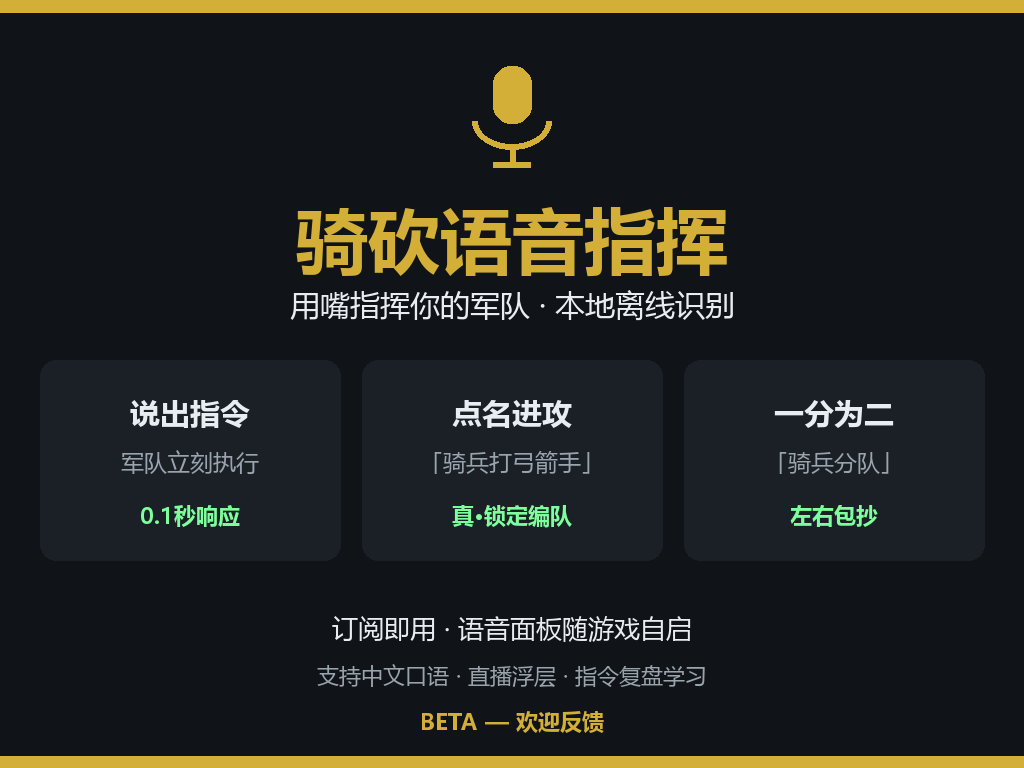
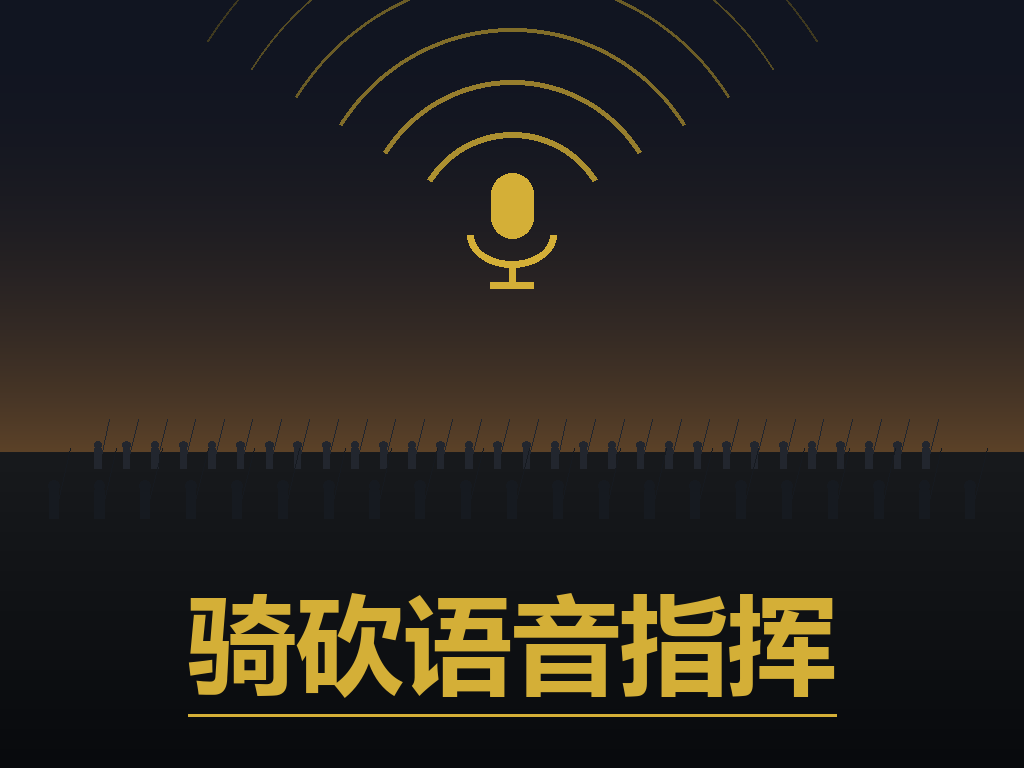
4:3主视觉改纯图形叙事(声波驱动军阵), 文案只留六个大字

diff --git a/tools/make_workshop_art.py b/tools/make_workshop_art.py
@@ -162,42 +162,75 @@ def shot_split():
 
 
 def promo_4x3():
-    """4:3 宣传图 1024x768 (Steam 工坊主视觉推荐比例)。"""
+    """4:3 主视觉 1024x768 —— 纯图形叙事, 文案只留六个大字。
+
+    构图: 上方暮色天光渐变, 中央声波自麦克风扩散, 下方军阵剪影(长矛列)
+    正随声波推进 —— "声音驱动军队"一眼可读, 不靠一句说明文字。
+    """
     W, H = 1024, 768
     img = Image.new("RGB", (W, H), BG)
     d = ImageDraw.Draw(img)
-    d.rectangle([0, 0, W, 12], fill=GOLD)
-    d.rectangle([0, H - 12, W, H], fill=GOLD)
 
-    mic_icon(d, W / 2, 118, 104, GOLD)
-    center(d, W / 2, 190, "骑砍语音指挥", font("msyhbd.ttc", 72), GOLD)
-    center(d, W / 2, 284, "用嘴指挥你的军队 · 本地离线识别",
-           font("msyh.ttc", 30), FG)
+    horizon = 452          # 地平线
+    title_y = 568          # 标题基线区(军阵不许越过)
 
-    # 三张能力卡
-    cards = [("说出指令", "军队立刻执行", "0.1秒响应"),
-             ("点名进攻", "「骑兵打弓箭手」", "真·锁定编队"),
-             ("一分为二", "「骑兵分队」", "左右包抄")]
-    cw, gap = 300, 22
-    x = (W - (cw * 3 + gap * 2)) / 2
-    f_t = font("msyhbd.ttc", 30)
-    f_s = font("msyh.ttc", 23)
-    f_g = font("msyhbd.ttc", 22)
-    for title, sub, tag in cards:
-        d.rounded_rectangle([x, 360, x + cw, 560], radius=16, fill=CARD)
-        center(d, x + cw / 2, 392, title, f_t, FG)
-        center(d, x + cw / 2, 446, sub, f_s, DIM)
-        center(d, x + cw / 2, 500, tag, f_g, GREEN)
-        x += cw + gap
+    # 天光: 顶部深蓝紫 -> 地平线暖金
+    top, warm = (17, 21, 33), (92, 66, 40)
+    for y in range(horizon):
+        t = (y / horizon) ** 2.4
+        d.line([0, y, W, y],
+               fill=tuple(int(top[i] + (warm[i] - top[i]) * t) for i in range(3)))
+    for y in range(horizon, H):     # 地面向下压暗, 给标题让出对比
+        t = (y - horizon) / (H - horizon)
+        v = int(24 - 16 * t)
+        d.line([0, y, W, y], fill=(v, v + 2, v + 5))
 
-    center(d, W / 2, 610, "订阅即用 · 语音面板随游戏自启",
-           font("msyh.ttc", 26), FG)
-    center(d, W / 2, 660, "支持中文口语 · 直播浮层 · 指令复盘学习",
-           font("msyh.ttc", 22), DIM)
-    center(d, W / 2, 706, "BETA — 欢迎反馈", font("msyhbd.ttc", 22), GOLD)
+    cx, cy = W / 2, 232
+
+    # 声波: 麦克风向下方军阵扩散的同心弧(越远越淡)
+    for i, r in enumerate(range(100, 372, 52)):
+        fade = 1 - i / 7.2
+        col = tuple(int(BG[j] + (GOLD[j] - BG[j]) * fade * 0.8) for j in range(3))
+        d.arc([cx - r, cy - r, cx + r, cy + r], start=212, end=328,
+              fill=col, width=max(2, int(6 * fade)))
+
+    mic_icon(d, cx, cy, 118, GOLD)
+
+    # 军阵剪影: 两排长矛兵贴着地平线, 近大远小
+    def rank(y, n, scale, col):
+        span = W * (0.60 + 0.36 * scale)
+        step = span / (n - 1)
+        for k in range(n):
+            x = cx - span / 2 + step * k
+            bw, bh = 11 * scale, 34 * scale
+            d.rectangle([x - bw / 2, y - bh, x + bw / 2, y], fill=col)
+            d.ellipse([x - bw * 0.6, y - bh - bw * 1.1,
+                       x + bw * 0.6, y - bh + bw * 0.1], fill=col)
+            sp = 64 * scale
+            d.line([x + bw * 0.5, y - bh * 0.6,
+                    x + bw * 0.5 + sp * 0.24, y - bh * 0.6 - sp],
+                   fill=col, width=max(1, int(2.4 * scale)))
+
+    rank(horizon + 16, 30, 0.58, (34, 38, 46))
+    rank(horizon + 66, 21, 0.82, (22, 26, 32))
+
+    # 六个大字(自适应字号, 保证两侧留白) + 上下细金线
+    target = int(W * 0.72)
+    size = 108
+    while size > 60:
+        f = font("msyhbd.ttc", size)
+        b = d.textbbox((0, 0), "骑砍语音指挥", font=f)
+        if b[2] - b[0] <= target:
+            break
+        size -= 4
+    tw, th = b[2] - b[0], b[3] - b[1]
+    d.text((cx - tw / 2, title_y), "骑砍语音指挥", font=f, fill=GOLD)
+    ly = title_y + th + 42
+    d.line([cx - tw / 2, ly, cx + tw / 2, ly], fill=GOLD, width=3)
+
     p = os.path.join(ART, "promo_4x3.png")
     img.save(p)
-    print("4:3 宣传图:", p)
+    print("4:3 主视觉:", p)
 
 
 def main():
